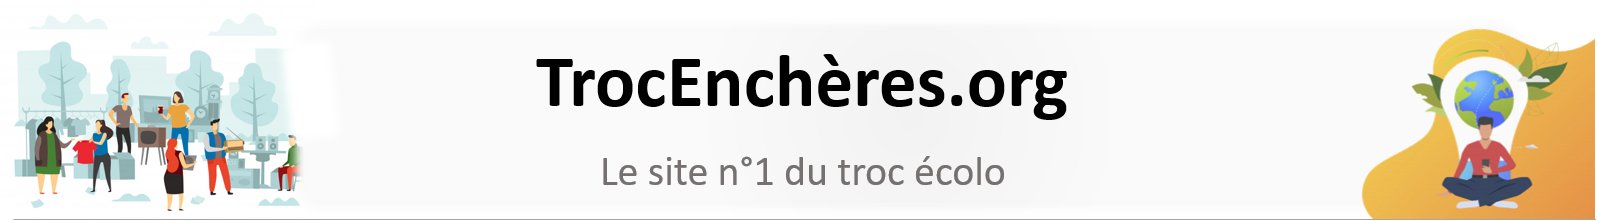
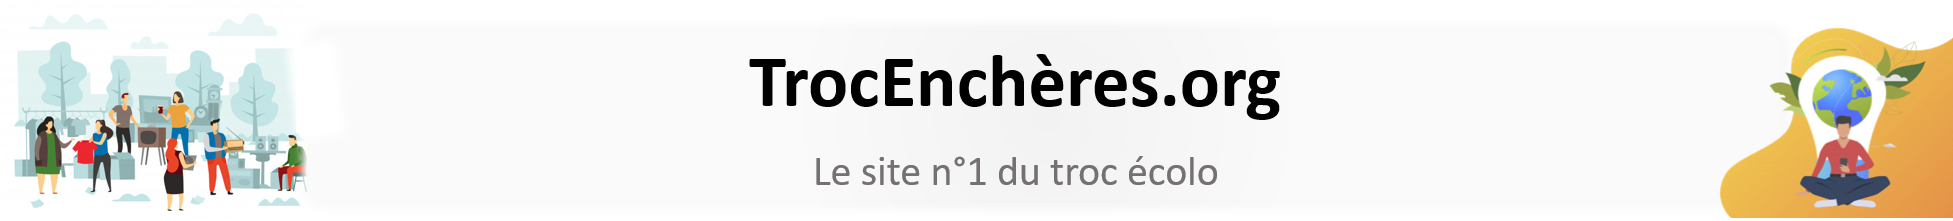
fix details in style of connexion page and add style in create account page

diff --git a/TrocEnchere.org/WebContent/CSS/main.css b/TrocEnchere.org/WebContent/CSS/main.css
@@ -39,14 +39,17 @@ table,
 td,
 textarea,
 input,
-iframe {
+iframe,
+header {
 	max-width: 100%;
 }
 
 	/* conserver le ratio des images */
 
-img {
+img,
+header  {
 	height: auto;
+	text-align: center;
 }
 	
 	/* gestion des mots longs */
@@ -82,14 +85,25 @@ body:before {
 }
 
 h1 {
-	font-size: min(5vw, 40px);
+	font-size: min(5vw, 37px);
 	color: #7f8c8d;
 	text-align: center;
 }
 
 h2 {
-	font-size: min(4vw, 30px);
+	font-size: min(4vw, 27px);
 	color: #7f8c8d;
+	text-align: center;
+}
+
+label {
+	font-size: min(3vw, 13px);
+	text-align: center;
+}
+
+.text-small-pad {
+	margin: 0.5px 1 px;
+	padding: 0.5px 1 px;
 	text-align: center;
 }
 
@@ -105,6 +119,27 @@ a {
 }
 
 .main-button {
+	height: min(8em, 40px);
+	font-size: min(6vw, 15px);
+	font-weight: bold;
 	background-color: #f39c12;
 }
+
+
+.big-button {
+	margin-top: 2em;
+	height: min(10em, 50px);
+	font-size: min(6vw, 25px);
+	
+}
+
+.control {
+	justify-content: center;
+	text-align: center;
+}
+
+header {
+	box-shadow: 0 2px 4px 0 rgba(0, 0, 0, 0.15);
+}
+
 

diff --git a/TrocEnchere.org/WebContent/CSS/connexion.css b/TrocEnchere.org/WebContent/CSS/connexion.css
@@ -1,0 +1,10 @@
+@charset "ISO-8859-1";
+
+.columns {
+	max-width: 100%;
+	display: flex;
+}
+
+label {
+	margin-bottom: 0;
+}
